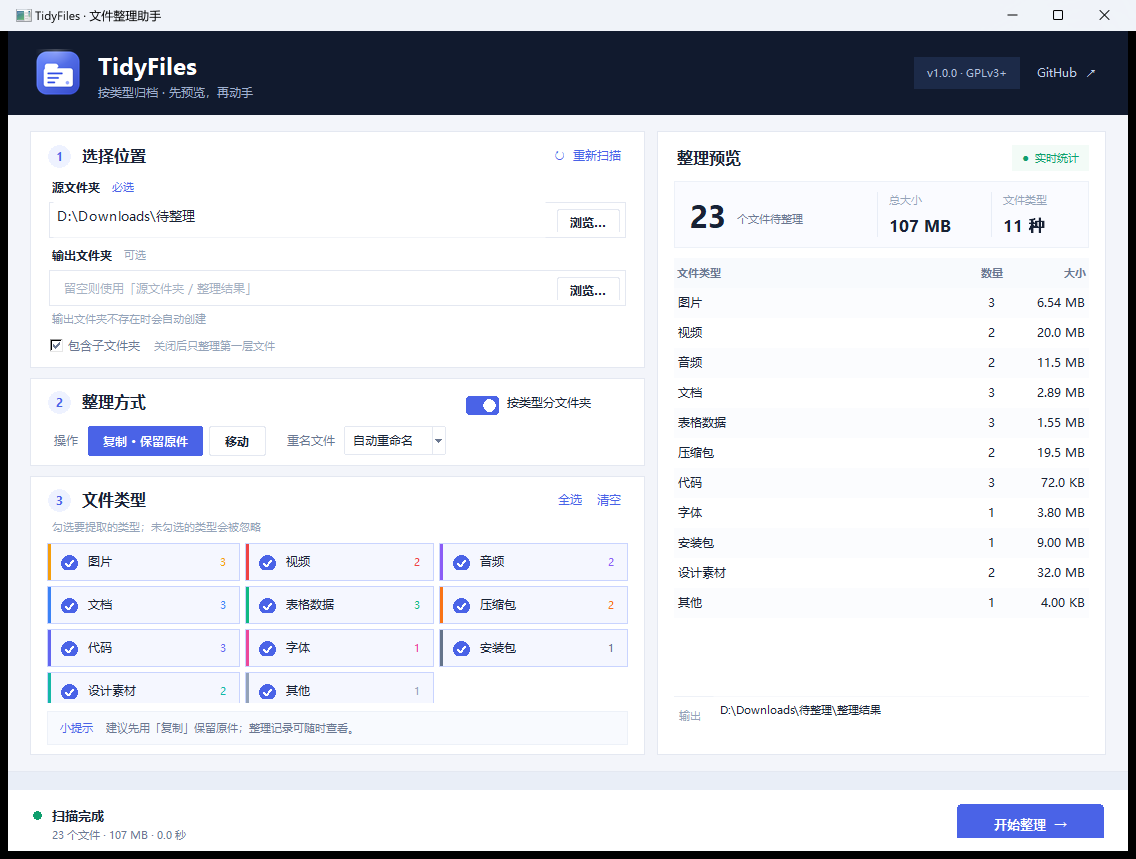
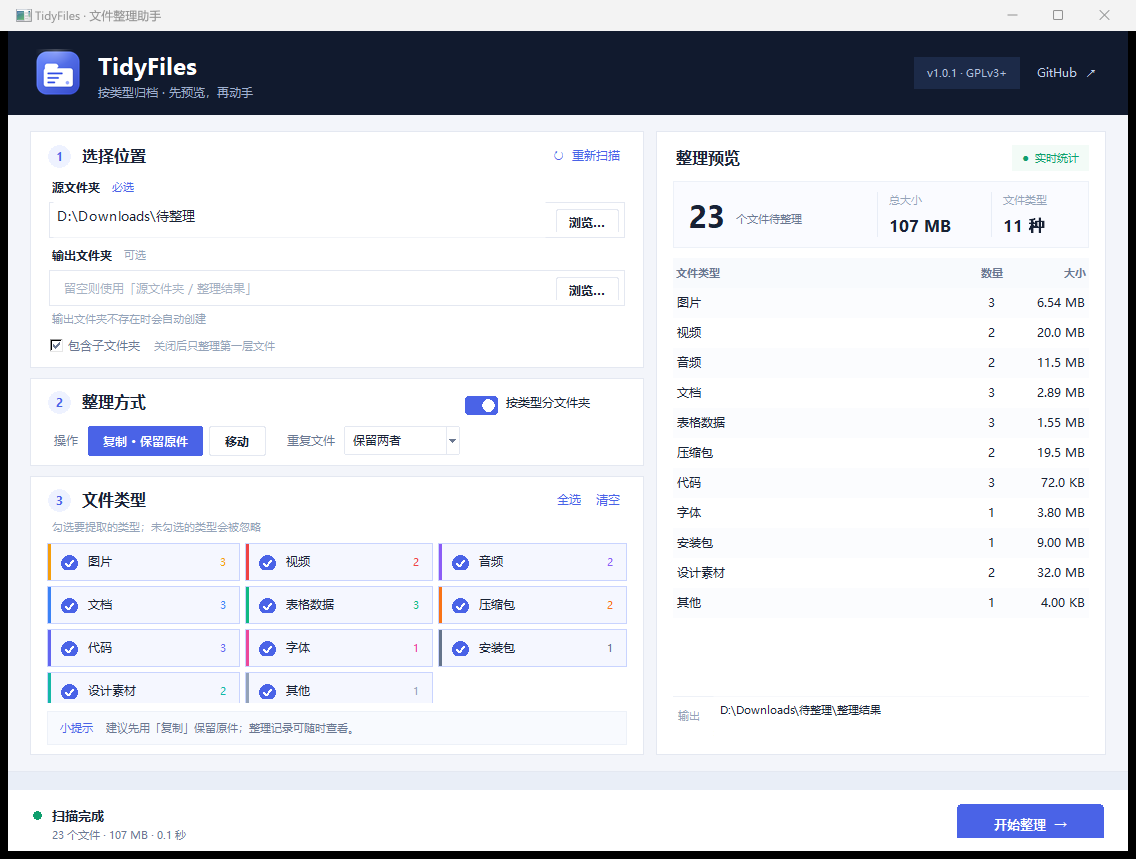
feat: add clear duplicate file strategies
Expose three user-facing choices when a target file already exists: keep both (rename the incoming file), skip the incoming file, or overwrite the existing one. Update GUI labels, CLI help/output, documentation, tests, screenshot, and bump to 1.0.1.

diff --git a/tidyfiles/gui.py b/tidyfiles/gui.py
@@ -54,10 +54,13 @@ from .widgets import (
 REPO_URL = "https://github.com/Artorias-Adon/tidyfiles"
 ASSETS_DIR = Path(__file__).resolve().parent / "assets"
 
+CONFLICT_ORDER = (
+    ConflictPolicy.RENAME,
+    ConflictPolicy.SKIP,
+    ConflictPolicy.OVERWRITE,
+)
 CONFLICT_LABELS: dict[str, str] = {
-    ConflictPolicy.RENAME.value: "自动重命名",
-    ConflictPolicy.SKIP.value: "跳过",
-    ConflictPolicy.OVERWRITE.value: "覆盖",
+    policy.value: policy.label for policy in CONFLICT_ORDER
 }
 CONFLICT_BY_LABEL = {label: key for key, label in CONFLICT_LABELS.items()}
 
@@ -650,7 +653,7 @@ class TidyFilesApp:
 
         tk.Label(
             controls,
-            text="重名文件",
+            text="重复文件",
             bg=CARD,
             fg=MUTED,
             font=self.fonts["small"],
@@ -658,9 +661,9 @@ class TidyFilesApp:
         self.conflict_combo = ttk.Combobox(
             controls,
             textvariable=self.conflict_label_var,
-            values=list(CONFLICT_LABELS.values()),
+            values=[CONFLICT_LABELS[policy.value] for policy in CONFLICT_ORDER],
             state="readonly",
-            width=10,
+            width=12,
             style="Tidy.TCombobox",
             font=self.fonts["small"],
         )
@@ -1074,6 +1077,7 @@ class TidyFilesApp:
     def _on_conflict_changed(self, _event=None) -> None:
         label = self.conflict_label_var.get()
         self.conflict_var.set(CONFLICT_BY_LABEL.get(label, ConflictPolicy.RENAME.value))
+        self.detail_label.configure(text=ConflictPolicy(self.conflict_var.get()).description)
 
     def _toggle_categorize(self) -> None:
         if self.busy:
@@ -1463,7 +1467,7 @@ class TidyFilesApp:
             f"（{human_size(plan.total_size)}）到：\n"
             f"{plan.destination}\n\n"
             f"分类：{'按文件类型创建子文件夹' if plan.categorized else '全部放入同一层'}\n"
-            f"重名文件：{conflict.label}{note}"
+            f"重复文件：{conflict.label}（{conflict.description}）{note}"
         )
         if not messagebox.askokcancel(
             "确认开始整理",
@@ -1548,7 +1552,7 @@ class TidyFilesApp:
         label = {
             "copied": "已复制",
             "moved": "已移动",
-            "skipped": "已跳过",
+            "skipped": "已略过",
             "failed": "失败",
         }.get(outcome.status, "")
         detail = (
@@ -1575,7 +1579,7 @@ class TidyFilesApp:
         if result.moved:
             parts.append(f"已移动 {result.moved:,} 个")
         if result.skipped:
-            parts.append(f"跳过 {result.skipped:,} 个")
+            parts.append(f"略过 {result.skipped:,} 个")
         if result.failed:
             parts.append(f"失败 {result.failed:,} 个")
         summary = " · ".join(parts) or "没有文件被处理"

diff --git a/tidyfiles/organizer.py b/tidyfiles/organizer.py
@@ -46,9 +46,17 @@ class ConflictPolicy(str, Enum):
     @property
     def label(self) -> str:
         return {
-            ConflictPolicy.RENAME: "自动重命名",
-            ConflictPolicy.SKIP: "跳过",
-            ConflictPolicy.OVERWRITE: "覆盖",
+            ConflictPolicy.RENAME: "保留两者",
+            ConflictPolicy.SKIP: "略过新文件",
+            ConflictPolicy.OVERWRITE: "覆盖旧文件",
+        }[self]
+
+    @property
+    def description(self) -> str:
+        return {
+            ConflictPolicy.RENAME: "保留旧文件，新文件自动重命名后导入",
+            ConflictPolicy.SKIP: "保留旧文件，不导入新文件",
+            ConflictPolicy.OVERWRITE: "用新文件覆盖旧文件",
         }[self]
 
 
@@ -302,7 +310,7 @@ class Organizer:
         try:
             conflict = ConflictPolicy(conflict)
         except ValueError as error:
-            raise OrganizerError(f"未知的重名处理方式：{conflict}") from error
+            raise OrganizerError(f"未知的重复文件处理方式：{conflict}") from error
 
         if plan.destination == plan.source:
             raise OrganizerError("输出文件夹不能与源文件夹相同。")
@@ -353,7 +361,7 @@ class Organizer:
                         category,
                         item.entry.size,
                         "skipped",
-                        "输出位置已存在同名文件，按设置跳过",
+                        "输出位置已存在同名文件，按设置略过新文件",
                     )
                     outcomes.append(outcome)
                     self._notify(progress, index + 1, total, outcome)

diff --git a/tidyfiles/cli.py b/tidyfiles/cli.py
@@ -68,7 +68,10 @@ def build_parser() -> argparse.ArgumentParser:
         "--conflict",
         choices=[policy.value for policy in ConflictPolicy],
         default=ConflictPolicy.RENAME.value,
-        help="重名文件处理方式（默认：rename）",
+        help=(
+            "重复文件处理：rename=保留两者，skip=略过新文件，"
+            "overwrite=覆盖旧文件（默认：rename）"
+        ),
     )
     parser.add_argument(
         "--dry-run",
@@ -168,19 +171,21 @@ def main(argv: list[str] | None = None) -> int:
         return 0
 
     operation = Operation.MOVE if args.move else Operation.COPY
-    print(f"\n正在{operation.label} {len(plan.files)} 个文件…")
+    conflict = ConflictPolicy(args.conflict)
+    print(f"\n重复文件：{conflict.label}（{conflict.description}）")
+    print(f"正在{operation.label} {len(plan.files)} 个文件…")
     try:
         result = organizer.execute(
             plan,
             operation=operation,
-            conflict=args.conflict,
+            conflict=conflict,
         )
     except OrganizerError as error:
         print(f"错误：{error}", file=sys.stderr)
         return 2
 
     print(
-        f"完成：成功 {result.completed}，跳过 {result.skipped}，失败 {result.failed}。"
+        f"完成：成功 {result.completed}，略过 {result.skipped}，失败 {result.failed}。"
     )
     if result.report_path:
         print(f"记录：{result.report_path}")

diff --git a/tests/test_core.py b/tests/test_core.py
@@ -16,6 +16,7 @@ from tidyfiles.categories import (
 )
 from tidyfiles.cli import _configure_output
 from tidyfiles.organizer import (
+    ConflictPolicy,
     Operation,
     Organizer,
     OrganizerError,
@@ -147,6 +148,20 @@ class PlanTests(OrganizerTestCase):
     def test_unknown_category_is_rejected(self) -> None:
         with self.assertRaises(OrganizerError):
             self.organizer.build_plan(self.scan, self.destination, selected_categories=["nope"])
+
+
+class ConflictPolicyTests(unittest.TestCase):
+    def test_user_facing_labels(self) -> None:
+        self.assertEqual(ConflictPolicy.RENAME.label, "保留两者")
+        self.assertEqual(ConflictPolicy.SKIP.label, "略过新文件")
+        self.assertEqual(ConflictPolicy.OVERWRITE.label, "覆盖旧文件")
+
+    def test_each_policy_has_a_description(self) -> None:
+        descriptions = {policy.description for policy in ConflictPolicy}
+        self.assertEqual(len(descriptions), 3)
+        self.assertIn("新文件自动重命名", ConflictPolicy.RENAME.description)
+        self.assertIn("不导入新文件", ConflictPolicy.SKIP.description)
+        self.assertIn("覆盖旧文件", ConflictPolicy.OVERWRITE.description)
 
 
 class ExecuteTests(OrganizerTestCase):

diff --git a/tidyfiles/__init__.py b/tidyfiles/__init__.py
@@ -1,5 +1,5 @@
 # SPDX-License-Identifier: GPL-3.0-or-later
 """TidyFiles: a friendly folder organizer."""
 
-__version__ = "1.0.0"
+__version__ = "1.0.1"
 __all__ = ["__version__"]

diff --git a/README.md b/README.md
@@ -34,7 +34,7 @@ TidyFiles 是一个**完全本地运行**的桌面文件整理工具。选择一
 - **可选择的分类方式**：按类型创建子文件夹，或关闭分类后全部放入同一层。
 - **复制 / 移动**：默认**复制并保留原件**；移动前有明确警告。
 - **先预览，后动手**：执行前展示数量、体积、输出路径与目标分类。
-- **安全的重名处理**：自动重命名、跳过或覆盖三种策略，默认自动重命名。
+- **重复文件可选策略**：保留两者、略过新文件或覆盖旧文件，默认保留两者。
 - **不会重复整理输出目录**：输出文件夹位于源目录内时会被自动排除。
 - **原子复制**：先写临时文件再替换，降低中断导致半截文件的风险。
 - **完整整理记录**：每次执行生成 JSON 报告，记录来源、目标、状态和错误。
@@ -89,12 +89,24 @@ tidyfiles-cli -h   # 始终使用命令行
 
 1. **选择源文件夹**：点击「浏览…」，或直接粘贴路径后按 Enter / 点击「重新扫描」。
 2. **选择输出文件夹（可选）**：留空时自动使用 `源文件夹/整理结果`。
-3. **设置整理方式**：选择「复制 · 保留原件」或「移动」；设置重名文件策略。
+3. **设置整理方式**：选择「复制 · 保留原件」或「移动」；设置重复文件策略。
 4. **勾选文件类型**：左侧类型卡片会显示实时数量。点击「全选 / 清空」快速切换。
 5. **检查预览**：右侧会汇总待整理文件数、总大小、类型和输出位置。
 6. **点击「开始整理」**：确认后执行；过程中可取消，已完成文件不会自动回滚。
 
 > 建议第一次使用时保留默认的「复制」模式，确认输出结果无误后再考虑移动。
+
+### 重复文件处理
+
+当输出目录中已经存在同名文件时，可以在界面右下角选择一种策略：
+
+| 策略 | 行为 |
+| --- | --- |
+| **保留两者**（默认） | 保留旧文件，新文件自动重命名为 `photo (1).jpg` 后导入 |
+| **略过新文件** | 保留旧文件，不导入新文件；计入“略过”数量 |
+| **覆盖旧文件** | 用新文件替换旧文件；请谨慎使用 |
+
+同一批整理中出现多个同名文件时，程序也会自动避让，不会让后一个文件覆盖刚导入的前一个文件。
 
 ## 默认分类规则
 
@@ -123,7 +135,7 @@ python -m tidyfiles -s "D:\Downloads" --dry-run
 # 复制图片和文档到指定目录
 python -m tidyfiles -s "D:\Downloads" -d "D:\Sorted" --types images,documents
 
-# 移动所有文件，遇到重名跳过，不扫描子文件夹
+# 移动所有文件，遇到重复文件时略过新文件，不扫描子文件夹
 python -m tidyfiles -s "D:\Downloads" --move --conflict skip --no-recursive
 
 # 不按类型建子文件夹
@@ -148,7 +160,7 @@ python -m tidyfiles --help
 | `--flat` | 不创建类型子文件夹 |
 | `--no-recursive` | 只处理第一层文件 |
 | `--types` | 逗号分隔的类型 key 或中文名，如 `images,文档` |
-| `--conflict` | `rename`（默认）/ `skip` / `overwrite` |
+| `--conflict` | `rename`=保留两者（默认）/ `skip`=略过新文件 / `overwrite`=覆盖旧文件 |
 | `--dry-run` | 只输出计划，不写入 |
 | `--list-types` | 列出内置分类 |
 
@@ -162,7 +174,7 @@ TidyFiles 会尽量把“整理文件”这件事做得可预期：
 - **源目录保护**：输出目录不能与源目录完全相同。
 - **原子复制**：先复制为同目录临时文件，再原子替换目标文件；失败时清理临时文件。
 - **批处理不中断**：单个文件被占用或无权限时记录失败并继续处理其他文件。
-- **同名保护**：默认 `photo (1).jpg` 自动重命名；同一批里出现同名文件也不会互相覆盖。
+- **同名保护**：默认保留两者，新文件按 `photo (1).jpg` 自动重命名；同一批里出现同名文件也不会互相覆盖。
 - **JSON 整理记录**：每次执行都会保存报告，方便审计或排查。
 
 **移动模式没有自动撤销功能。** 如果你需要可回退的整理，请使用复制模式。
@@ -217,7 +229,7 @@ python -m unittest discover -s tests -v
 - 递归 / 非递归扫描、输出目录排除、取消扫描
 - 类型筛选与平铺计划
 - 复制、移动、中文文件名
-- 重名自动重命名 / 跳过 / 覆盖
+- 重复文件保留两者 / 略过新文件 / 覆盖旧文件
 - 同一批同名文件保护
 - 取消执行、源文件消失、无效输出路径
 - JSON 报告、设置读写、UTF-8 BOM 兼容、路径截断
